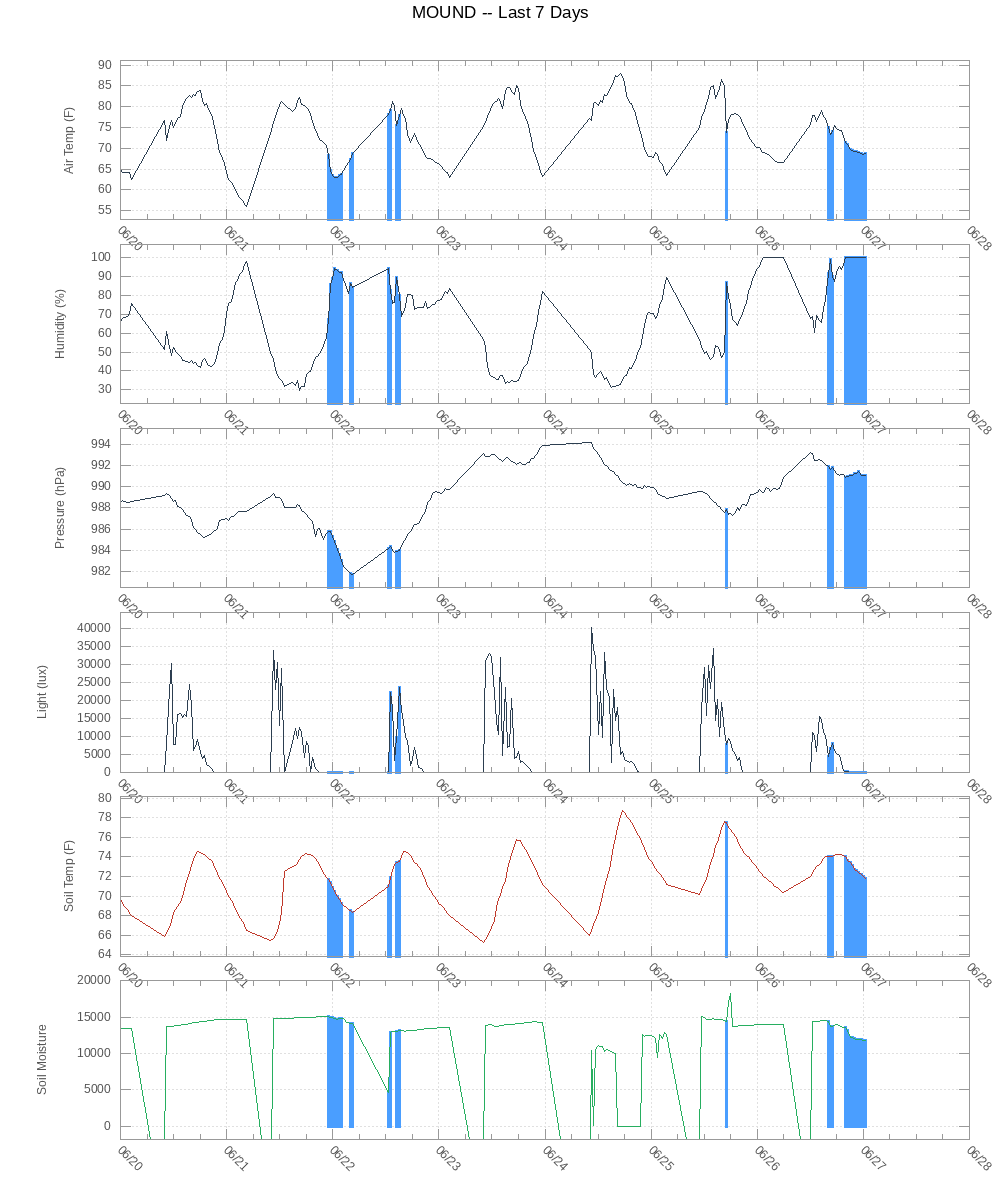
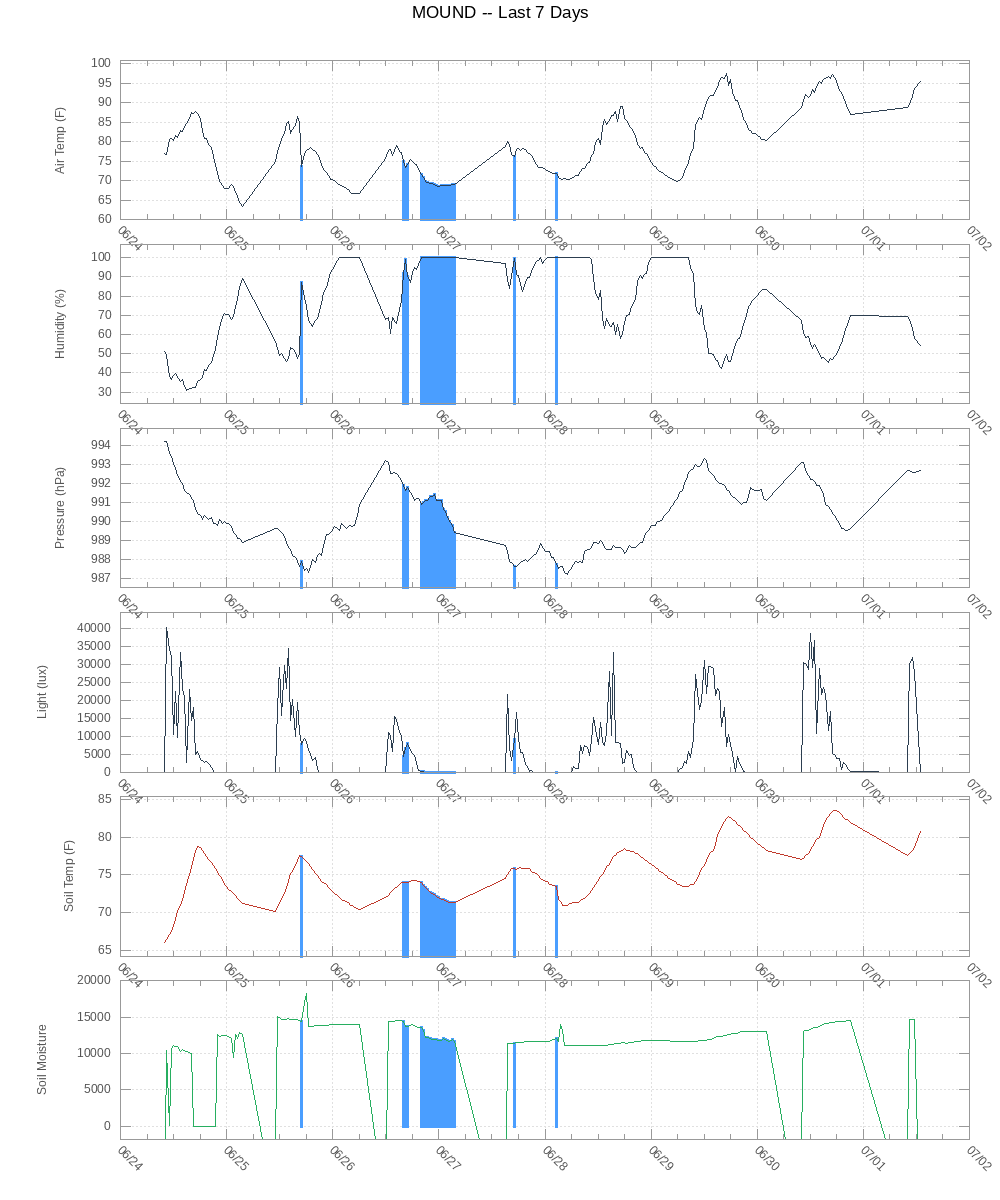
backup

diff --git a/mound/index.html b/mound/index.html
@@ -38,21 +38,21 @@
 
       <hr style="border:none; border-top: 1px solid #ccc; margin: 1rem 0;">
 
-      <p><strong>Last reading:</strong> 2026-06-27 16:30:04</p>
+      <p><strong>Last reading:</strong> 2026-07-01 20:00:04</p>
 
       <table style="border:none; border-collapse:collapse; font-family:inherit; font-size:inherit; color:inherit;">
-        <tr><td style="padding: 0.2rem 1.5rem 0.2rem 0;">Air Temperature</td><td>76.8 F</td></tr>
-        <tr><td style="padding: 0.2rem 1.5rem 0.2rem 0;">Humidity</td><td>90.9%</td></tr>
-        <tr><td style="padding: 0.2rem 1.5rem 0.2rem 0;">Pressure</td><td>987.8 hPa</td></tr>
-        <tr><td style="padding: 0.2rem 1.5rem 0.2rem 0;">Light</td><td>3414 lux</td></tr>
-        <tr><td style="padding: 0.2rem 1.5rem 0.2rem 0;">Soil Temperature</td><td>75.8 F</td></tr>
-        <tr><td style="padding: 0.2rem 1.5rem 0.2rem 0;">Soil Moisture</td><td>Saturated</td></tr>
+        <tr><td style="padding: 0.2rem 1.5rem 0.2rem 0;">Air Temperature</td><td>91.8 F</td></tr>
+        <tr><td style="padding: 0.2rem 1.5rem 0.2rem 0;">Humidity</td><td>52.8%</td></tr>
+        <tr><td style="padding: 0.2rem 1.5rem 0.2rem 0;">Pressure</td><td>991.0 hPa</td></tr>
+        <tr><td style="padding: 0.2rem 1.5rem 0.2rem 0;">Light</td><td>2202 lux</td></tr>
+        <tr><td style="padding: 0.2rem 1.5rem 0.2rem 0;">Soil Temperature</td><td>83.4 F</td></tr>
+        <tr><td style="padding: 0.2rem 1.5rem 0.2rem 0;">Soil Moisture</td><td>Moist</td></tr>
         <tr><td style="padding: 0.2rem 1.5rem 0.2rem 0;">Rain</td><td>No</td></tr>
       </table>
 
       <hr style="border:none; border-top: 1px solid #ccc; margin: 1rem 0;">
 
-      <p><strong>Today -- 2026-06-27</strong></p>
+      <p><strong>Today -- 2026-07-01</strong></p>
 
       <figure>
         <img src="graphs/today.png"
@@ -85,6 +85,10 @@
 
       <p><strong>Daily Archive</strong></p>
       <ul style="list-style:none; padding:0;">
+<li><a href="graphs/archive/2026-06-30.png">2026-06-30</a></li>
+<li><a href="graphs/archive/2026-06-29.png">2026-06-29</a></li>
+<li><a href="graphs/archive/2026-06-28.png">2026-06-28</a></li>
+<li><a href="graphs/archive/2026-06-27.png">2026-06-27</a></li>
 <li><a href="graphs/archive/2026-06-26.png">2026-06-26</a></li>
 <li><a href="graphs/archive/2026-06-25.png">2026-06-25</a></li>
 <li><a href="graphs/archive/2026-06-24.png">2026-06-24</a></li>
@@ -110,7 +114,7 @@
 
     </blockquote>
 
-    <p style="font-size: 0.85rem; color: #999;">2026-06-27 · auto-generated</p>
+    <p style="font-size: 0.85rem; color: #999;">2026-07-01 · auto-generated</p>
 
   </div>
 

diff --git a/mylinks.html b/mylinks.html
@@ -31,7 +31,7 @@
 <br/><br/>
 <a href="http://173.88.148.230:1981">cardboard pixel</a>
 <br/><br/>
-<a href="http://173.88.148.230:1234">green lamp</a>
+<a href="http://65.29.84.167:1234">green lamp</a>
 <br/><br/>
 <a href="desiderata.html">DESIDERATA</a>
 <br/><br/>